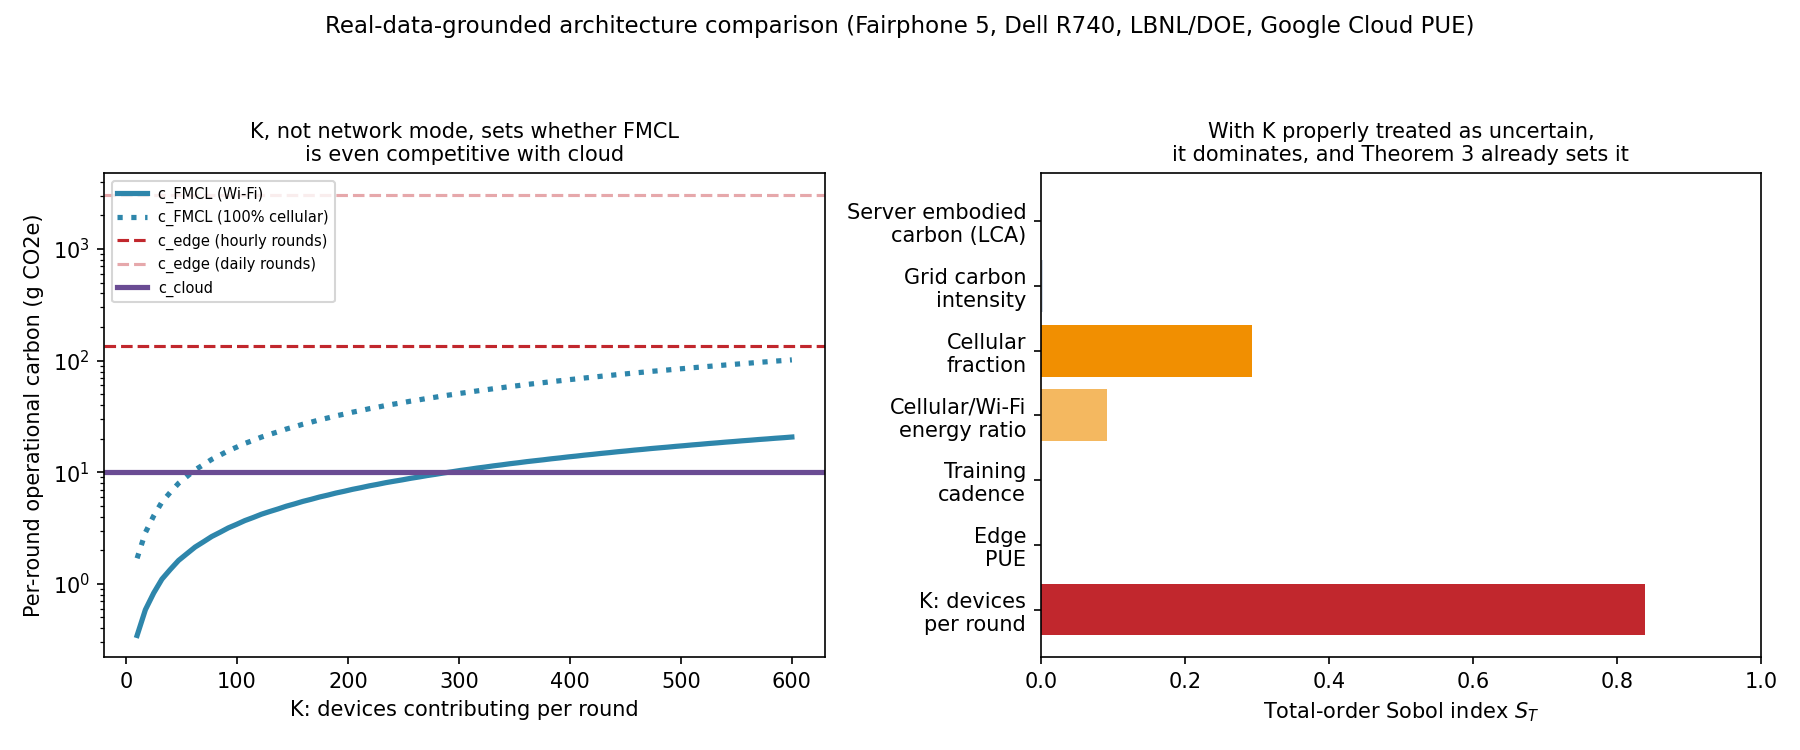
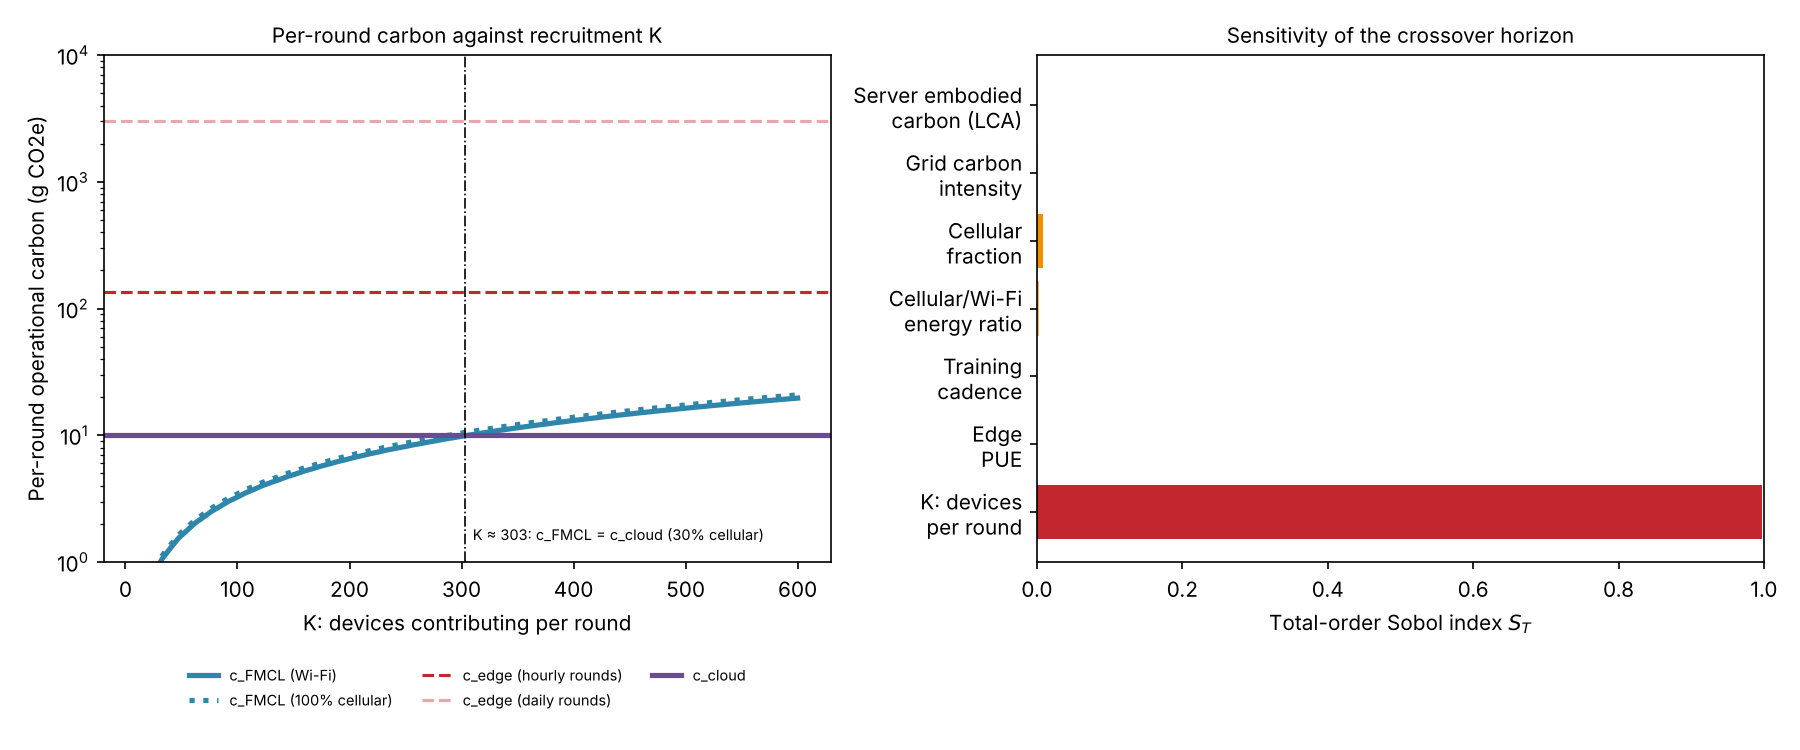
Re-ground radio energy in measured LTE/Wi-Fi power models; exact E[K] and mean power in Monte Carlo check; exact convex-hull frontier check; recruitment-floor script

diff --git a/monte_carlo/campaign.py b/monte_carlo/campaign.py
@@ -45,9 +45,9 @@ HERE = os.path.dirname(os.path.abspath(__file__))
 # Table 5's population-scale N; see Section 10.5 for why K is capped
 # independently of N rather than set to p*N)
 # ---------------------------------------------------------------------
-N_POOL = 2000
+N_POOL = int(sys.argv[1]) if len(sys.argv) > 1 else 4000
 P_AVAIL = 0.15            # Definition 1: per-round device availability probability
-K_CAP = 300               # realistic per-round aggregator cap (Section 10.5)
+K_CAP = int(sys.argv[2]) if len(sys.argv) > 2 else 500       # per-round aggregator cap (Section 10.5)
 T_ROUNDS = 2000
 CADENCE_HOURS = 1.0       # hourly rounds, so calendar span equals T_ROUNDS hours
 CELLULAR_FRAC = 0.3       # stochastic per participation event
@@ -115,6 +115,26 @@ def find_crossover(cum_fmcl, cum_other):
     return int(np.argmax(exceeds)) + 1
 
 
+def theorem4_prediction():
+    """Theorem 4's closed-form T*_cloud and T*_edge at the expected participant count
+    E[K] = E[min(X, K_cap)], X ~ Binomial(N_pool, p_avail), and the mean of the
+    log-normal device-power draw, 4.0 * exp(CV^2 / 2)."""
+    from scipy.stats import binom
+    ks = np.arange(0, N_POOL + 1)
+    expected_K = float(np.sum(np.minimum(ks, K_CAP) * binom.pmf(ks, N_POOL, P_AVAIL)))
+    mean_power_w = 4.0 * np.exp(DEVICE_POWER_CV ** 2 / 2)
+    import real_accounting as ra
+    ra.P_ACTIVE_W = mean_power_w
+    c_f = ra.fmcl_per_round(expected_K, cellular_fraction=CELLULAR_FRAC,
+                            cellular_ratio=(CELLULAR_RATIO_LOW + CELLULAR_RATIO_HIGH) / 2)
+    c_e = ra.edge_per_round(inter_round_hours=CADENCE_HOURS)
+    c_c = ra.cloud_per_round()
+    phi_e, phi_c = ra.phi_edge(), ra.phi_cloud()
+    T_edge_star = phi_e / (c_f - c_e) if c_f > c_e else float('inf')
+    T_cloud_star = phi_c / (c_f - c_c) if c_f > c_c else float('inf')
+    return expected_K, mean_power_w, T_edge_star, T_cloud_star
+
+
 if __name__ == "__main__":
     rng_master = np.random.default_rng(RNG_SEED)
     crossovers_edge = []
@@ -150,18 +170,9 @@ if __name__ == "__main__":
         print(f"  Empirical crossover-vs-cloud round: median={np.median(finite_cloud):.0f}, "
               f"90% CI=[{np.percentile(finite_cloud,5):.0f}, {np.percentile(finite_cloud,95):.0f}]")
 
-    # Analytical Theorem 4 prediction at expected values
-    expected_K = min(N_POOL * P_AVAIL, K_CAP)
-    from real_accounting import fmcl_per_round, edge_per_round, cloud_per_round, phi_edge, phi_cloud
-    c_f = fmcl_per_round(int(expected_K), cellular_fraction=CELLULAR_FRAC,
-                          cellular_ratio=(CELLULAR_RATIO_LOW + CELLULAR_RATIO_HIGH) / 2)
-    c_e = edge_per_round(inter_round_hours=CADENCE_HOURS)
-    c_c = cloud_per_round()
-    phi_e, phi_c = phi_edge(), phi_cloud()
-    T_edge_star = phi_e / (c_f - c_e) if c_f > c_e else float('inf')
-    T_cloud_star = phi_c / (c_f - c_c) if c_f > c_c else float('inf')
+    expected_K, mean_power_w, T_edge_star, T_cloud_star = theorem4_prediction()
     print()
-    print(f"Analytical Theorem 4 prediction at E[K]={expected_K:.0f}: "
+    print(f"Analytical Theorem 4 prediction at E[K]={expected_K:.1f}, mean device power {mean_power_w:.2f} W: "
           f"T*_edge={T_edge_star:.0f}, T*_cloud={T_cloud_star:.1f}")
 
     np.savez(os.path.join(HERE, "mc_results.npz"),

diff --git a/monte_carlo/make_figure.py b/monte_carlo/make_figure.py
@@ -19,7 +19,8 @@ from real_accounting import (SERVER_ACTIVE_W, SERVER_IDLE_FRACTION, EDGE_PUE, CL
                               I_GRID_POINT, ROUND_SECONDS)
 
 sys.path.insert(0, HERE)
-from campaign import T_ROUNDS, CADENCE_HOURS
+from campaign import T_ROUNDS, CADENCE_HOURS, theorem4_prediction, N_POOL, K_CAP
+_EK, _PW, _TE, T_PRED = theorem4_prediction()
 
 data = np.load(os.path.join(HERE, "mc_results.npz"))
 all_fmcl = data['all_fmcl']            # (M_trials, T_ROUNDS)
@@ -51,28 +52,26 @@ ax.plot(rounds, fmcl_median, color="#2E86AB", linewidth=2, label="FMCL (median t
 ax.plot(rounds, cum_edge, color="#C1272D", linewidth=2, linestyle='--', label="Dedicated edge")
 ax.plot(rounds, cum_cloud, color="#6A4C93", linewidth=2, label="Cloud")
 ax.axvline(np.median(finite_cloud), color="#6A4C93", linestyle=':', alpha=0.7)
-ax.axvline(161.6, color="gray", linestyle=':', alpha=0.7)
+ax.axvline(T_PRED, color="gray", linestyle=':', alpha=0.7)
 ax.set_xlabel("Training round")
 ax.set_ylabel("Cumulative lifecycle carbon (g CO\u2082e)")
 ax.set_yscale("log")
 ax.set_xlim(0, 500)
-ax.set_title("Simulated campaign: cumulative carbon\n(edge never catches up within 2,000 rounds)", fontsize=10)
-ax.legend(fontsize=8, loc="lower right")
+plt.rcParams.update({"text.color": "black"})
+ax.set_title("Cumulative carbon over the campaign", fontsize=10)
+ax.legend(fontsize=8, loc="upper center", bbox_to_anchor=(0.5, -0.2), ncol=2, frameon=False)
 
 ax2 = axes[1]
 ax2.hist(finite_cloud, bins=30, color="#6A4C93", alpha=0.75, label="Empirical crossover round\n(300 simulated trials)")
-ax2.axvline(161.6, color="black", linestyle="--", linewidth=2,
-            label="Theorem 4 analytical prediction\n(161.6 rounds, at E[K]=300)")
+ax2.axvline(T_PRED, color="black", linestyle="--", linewidth=2,
+            label=f"Theorem 4 analytical prediction\n({T_PRED:.1f} rounds, at E[K]={_EK:.0f})")
 ax2.axvline(np.median(finite_cloud), color="gray", linestyle=":", linewidth=2,
             label=f"Simulated median ({np.median(finite_cloud):.0f} rounds)")
 ax2.set_xlabel("Round at which FMCL's cumulative carbon\nfirst exceeds cloud's")
 ax2.set_ylabel("Trials")
-ax2.set_title("Theory vs. simulation:\nclosed form lands inside the empirical distribution", fontsize=10)
-ax2.legend(fontsize=8)
+ax2.set_title("Crossover round: closed form and simulation", fontsize=10)
+ax2.legend(fontsize=8, loc="upper center", bbox_to_anchor=(0.5, -0.28), ncol=1, frameon=False)
 
-fig.suptitle("Monte Carlo campaign simulation: stochastic availability, device heterogeneity,\n"
-             "and communication mode, against real hardware data (300 trials, 2,000 rounds each)",
-             fontsize=11)
-fig.tight_layout(rect=[0, 0, 1, 0.90])
+fig.tight_layout()
 fig.savefig(os.path.join(HERE, "fig6_monte_carlo.png"), dpi=150)
 print("saved:", os.path.join(HERE, "fig6_monte_carlo.png"))

diff --git a/carbon_accounting/real_accounting.py b/carbon_accounting/real_accounting.py
@@ -68,7 +68,11 @@ SOURCES
               representative figure, retained here as the point estimate,
               with a wide band carried into the sensitivity analysis.
 
-[RadioTail]   Radio-tail communication-energy modeling consistent with the
+[Huang12]     J. Huang et al. (2012), "A close examination of performance and power
+              characteristics of 4G LTE networks," MobiSys, doi:10.1145/2307636.2307658.
+              Measured LTE/Wi-Fi power models (Tables 3-4); used for WIFI_WH_PER_MB and
+              the cellular/Wi-Fi ratio below.
+[RadioTail-old] Radio-tail communication-energy modeling consistent with the
               FMCL series' own calibration work: the cellular-to-Wi-Fi
               energy ratio at realistic FL payload sizes (0.1-1 MB) is
               33-104x, not the 5-10x figure that applies only at much
@@ -94,8 +98,20 @@ P_ACTIVE_W = 4.0               # W, representative flagship SoC under sustained 
 P_IDLE_W = 0.75                # W, [Fairphone5]-consistent baseline (27 Wh / 1.5-day charge cycle)
 ROUND_SECONDS = 90.0           # local training interval per device per round
 PAYLOAD_MB = 1.0               # compressed gradient upload, as elsewhere in this paper
-WIFI_WH_PER_MB = 0.005         # Wh/MB, within the 0.001-0.01 Wh/device range already cited [71]
-CELLULAR_RATIO_LOW, CELLULAR_RATIO_HIGH = 33.0, 104.0   # [RadioTail], realistic FL payload sizes
+# Radio energy for one 1 MB upload, from the [Huang12] measured power model
+# (uplink power = alpha_u * x + beta, x in Mbps; fixed promotion + tail energy per transfer):
+#   LTE:   alpha_u = 438.39 mW/Mbps, beta = 1288.04 mW, promotion 1210.7 mW x 260.1 ms, tail 1060.0 mW x 11,576 ms
+#   Wi-Fi: alpha_u = 283.17 mW/Mbps, beta =  132.86 mW, promotion  124.4 mW x  79.1 ms, tail  119.3 mW x    238 ms
+def radio_upload_j(payload_mb, network, mbps):
+    p = {"lte": (438.39, 1288.04, 1.2107 * 0.2601, 1.0600 * 11.576),
+         "wifi": (283.17, 132.86, 0.1244 * 0.0791, 0.1193 * 0.2381)}[network]
+    a, b, promo, tail = p
+    bits = 8.0 * payload_mb
+    return (a * mbps + b) / 1000.0 * (bits / mbps) + promo + tail
+WIFI_WH_PER_MB = radio_upload_j(1.0, "wifi", 5.0) / 3600.0      # ~0.0007 Wh per 1 MB upload at 5 Mbps
+# Cellular/Wi-Fi ratio at 1 MB: LTE and Wi-Fi uplink throughputs each varied over 1-10 Mbps
+CELLULAR_RATIO_LOW = radio_upload_j(1.0, "lte", 10.0) / radio_upload_j(1.0, "wifi", 1.0)    # ~5.1
+CELLULAR_RATIO_HIGH = radio_upload_j(1.0, "lte", 1.0) / radio_upload_j(1.0, "wifi", 10.0)   # ~11
 
 # ---------------------------------------------------------------------
 # Dedicated-edge tier (single representative server; M scales linearly)

diff --git a/carbon_accounting/make_figure.py b/carbon_accounting/make_figure.py
@@ -18,6 +18,7 @@ from real_accounting import fmcl_per_round, edge_per_round, cloud_per_round
 
 HERE = os.path.dirname(os.path.abspath(__file__))
 
+plt.rcParams.update({"text.color": "black", "axes.labelcolor": "black", "xtick.color": "black", "ytick.color": "black", "axes.edgecolor": "black"})
 fig, axes = plt.subplots(1, 2, figsize=(12, 5))
 
 # Panel 1: per-round FMCL rate vs K, at fixed cellular fraction, against edge and cloud
@@ -35,28 +36,29 @@ ax.axhline(c_edge_24h, color="#C1272D", linestyle='--', alpha=0.4, label="c_edge
 ax.axhline(c_cloud_val, color="#6A4C93", linewidth=2.5, label="c_cloud")
 ax.set_xlabel("K: devices contributing per round")
 ax.set_ylabel("Per-round operational carbon (g CO2e)")
+ax.set_ylim(1, 1e4)
 ax.set_yscale("log")
-ax.set_title("K, not network mode, sets whether FMCL\nis even competitive with cloud", fontsize=10)
-ax.legend(fontsize=7, loc="upper left")
+ax.axvline(303, color="black", linewidth=0.8, linestyle="-.")
+ax.text(310, 1.4, "K ≈ 303: c_FMCL = c_cloud (30% cellular)", fontsize=7, va="bottom")
+ax.set_title("Per-round carbon against recruitment K", fontsize=10)
+ax.legend(fontsize=7, loc="upper center", bbox_to_anchor=(0.5, -0.18), ncol=3, frameon=False)
 
 # Panel 2: Sobol total-order indices, K included and dominant
 # Values from real_data_sobol.py (seed=11, 2048 base samples, 1000 bootstrap resamples)
 ax2 = axes[1]
 names = ["Server embodied\ncarbon (LCA)", "Grid carbon\nintensity", "Cellular\nfraction",
          "Cellular/Wi-Fi\nenergy ratio", "Training\ncadence", "Edge\nPUE", "K: devices\nper round"]
-ST = [0.000, 0.003, 0.293, 0.092, 0.000, 0.000, 0.839]
+ST = [0.000, 0.002, 0.009, 0.003, 0.000, 0.000, 0.998]
 colors_bar = ["#cfd8e3"] * 7
 colors_bar[2] = "#F18F01"
 colors_bar[3] = "#F4B860"
 colors_bar[6] = "#C1272D"
 ax2.barh(names, ST, color=colors_bar)
 ax2.set_xlabel("Total-order Sobol index $S_T$")
-ax2.set_title("With K properly treated as uncertain,\nit dominates, and Theorem 3 already sets it", fontsize=10)
+ax2.set_title("Sensitivity of the crossover horizon", fontsize=10)
 ax2.set_xlim(0, 1)
 ax2.invert_yaxis()
 
-fig.suptitle("Real-data-grounded architecture comparison (Fairphone 5, Dell R740, LBNL/DOE, Google Cloud PUE)",
-             fontsize=11)
-fig.tight_layout(rect=[0, 0, 1, 0.93])
+fig.tight_layout()
 fig.savefig(os.path.join(HERE, "fig3_real_data.png"), dpi=150)
 print("saved:", os.path.join(HERE, "fig3_real_data.png"))

diff --git a/pareto_frontier/pareto_frontier.py b/pareto_frontier/pareto_frontier.py
@@ -100,6 +100,35 @@ def weighted_sum_recovered(points, front_mask, n_weights=4000):
     return recovered
 
 
+def supported_points(points, front_mask):
+    """Frontier points that minimize some weighted sum w*E_n + (1-w)*C_n,
+    w in [0,1]: the vertices of the lower convex hull of the frontier in the
+    normalized (E, C) plane. Exact check, independent of the weight sweep."""
+    E, Carb = points[:, 2], points[:, 3]
+    E_n = (E - E.min()) / (E.max() - E.min())
+    C_n = (Carb - Carb.min()) / (Carb.max() - Carb.min())
+    idx = np.where(front_mask)[0]
+    idx = idx[np.lexsort((C_n[idx], E_n[idx]))]
+    hull = []
+    for i in idx:
+        while len(hull) >= 2:
+            a, b = hull[-2], hull[-1]
+            cross = (E_n[b] - E_n[a]) * (C_n[i] - C_n[a]) - (C_n[b] - C_n[a]) * (E_n[i] - E_n[a])
+            if cross <= 0:
+                hull.pop()
+            else:
+                break
+        hull.append(i)
+    # keep only the decreasing-C part (lower-left chain)
+    chain = [hull[0]]
+    for i in hull[1:]:
+        if C_n[i] < C_n[chain[-1]]:
+            chain.append(i)
+    mask = np.zeros(len(points), dtype=bool)
+    mask[chain] = True
+    return mask
+
+
 if __name__ == "__main__":
     HERE = os.path.dirname(os.path.abspath(__file__))
 
@@ -120,6 +149,11 @@ if __name__ == "__main__":
     print(f"Frontier points weighted-sum never reaches at any weight: "
           f"{front_and_missed.sum()} / {front.sum()}  "
           f"({100*front_and_missed.sum()/front.sum():.1f}% of the true frontier)")
+
+    supported = supported_points(pts, front)
+    print(f"Frontier points supported by some weight (exact lower convex hull): "
+          f"{supported.sum()} / {front.sum()}; unreachable by any weight: "
+          f"{front.sum() - supported.sum()} ({100*(front.sum() - supported.sum())/front.sum():.1f}%)")
 
     np.savez(os.path.join(HERE, "pareto_data.npz"),
              points=pts, front=front, recovered=recovered)

diff --git a/carbon_accounting/real_data_sobol.py b/carbon_accounting/real_data_sobol.py
@@ -6,8 +6,8 @@ and reported ranges (not assumed +/- percentages) through the model:
     storage-removed to fully-configured]
   - Grid carbon intensity: 250 - 550 g CO2e/kWh [real regional spread]
   - Cellular participation fraction: 0 - 100% [deployment-dependent]
-  - Cellular/Wi-Fi energy ratio: 33 - 104x [RadioTail, measured at realistic
-    FL payload sizes, not the commonly cited but payload-mismatched 5-10x]
+  - Cellular/Wi-Fi energy ratio: ~5 - 11x for a 1 MB upload [Huang12 measured
+    power model, uplink throughput varied 1-10 Mbps on each network]
   - Training cadence: 1 - 24 hours between rounds [realistic FL deployment
     range, charging-window-scheduled through continuous]
   - Edge PUE: 1.5 - 2.0 [commonly cited on-premises server-room range]
@@ -30,7 +30,7 @@ sys.path.insert(0, os.path.dirname(os.path.abspath(__file__)))
 from real_accounting import (P_ACTIVE_W, P_IDLE_W, ROUND_SECONDS, WIFI_WH_PER_MB, PAYLOAD_MB,
                               SERVER_ACTIVE_W, SERVER_IDLE_FRACTION, CLOUD_PUE,
                               CLOUD_COMPUTE_WH_PER_ROUND, CLOUD_DATA_WH_PER_ROUND,
-                              CLOUD_EMBODIED_SHARE_KG)
+                              CLOUD_EMBODIED_SHARE_KG, CELLULAR_RATIO_LOW, CELLULAR_RATIO_HIGH)
 
 np.random.seed(11)
 
@@ -41,7 +41,7 @@ problem = {
         [910.0, 4288.0],
         [250.0, 550.0],
         [0.0, 1.0],
-        [33.0, 104.0],
+        [CELLULAR_RATIO_LOW, CELLULAR_RATIO_HIGH],
         [1.0, 24.0],
         [1.5, 2.0],
         [20.0, 500.0],

diff --git a/carbon_accounting/recruitment_floor.py b/carbon_accounting/recruitment_floor.py
@@ -1,0 +1,33 @@
+"""
+Recruitment floor implied by the accuracy and privacy targets (Section 10.5).
+
+A participating device must stay within its privacy budget at its first
+participation, so T_priv(sigma_max) >= 1 whenever p * T_acc < 1. With
+T_priv(sigma) = lam * sigma^2 and lam = (sqrt(2(kappa + eps_p)) - sqrt(2 kappa))^2,
+Lemma 1's noise ceiling gives K >= (2 / eps_acc) * (G^2 (1 - p) + d C^2 / lam),
+independent of N. Theorem 4 is then evaluated at that K.
+"""
+import math
+import real_accounting as ra
+
+DELTA = 1e-6
+KAPPA = math.log(1.0 / DELTA)
+G = C = 1.0
+EPS_ACC = 0.5
+T_ACC = 40
+CELLULAR_FRAC = 0.3
+
+CASES = {"activity recognition": dict(eps_p=8.0, d=1e4, N=1e6),
+         "healthcare":           dict(eps_p=4.0, d=1e2, N=2e5)}
+
+if __name__ == "__main__":
+    c_cloud = ra.cloud_per_round()
+    for name, c in CASES.items():
+        lam = (math.sqrt(2 * (KAPPA + c["eps_p"])) - math.sqrt(2 * KAPPA)) ** 2
+        K = (2.0 / EPS_ACC) * (G ** 2 + c["d"] * C ** 2 / lam)
+        c_f = ra.fmcl_per_round(K, cellular_fraction=CELLULAR_FRAC)
+        T_star = ra.phi_cloud() / (c_f - c_cloud) if c_f > c_cloud else float("inf")
+        K_cap = 500
+        d_max = lam * (EPS_ACC * K_cap / 2.0 - G ** 2) / C ** 2
+        print(f"{name}: lambda={lam:.4f}  K_floor={K:,.0f}  p={K / c['N']:.4f}  pT_acc={K / c['N'] * T_ACC:.2f}")
+        print(f"  c_FMCL={c_f:.0f} g/round  T*_cloud={T_star:.2f} rounds (T_acc={T_ACC})  d_max at K_cap={K_cap}: {d_max:.0f}")
